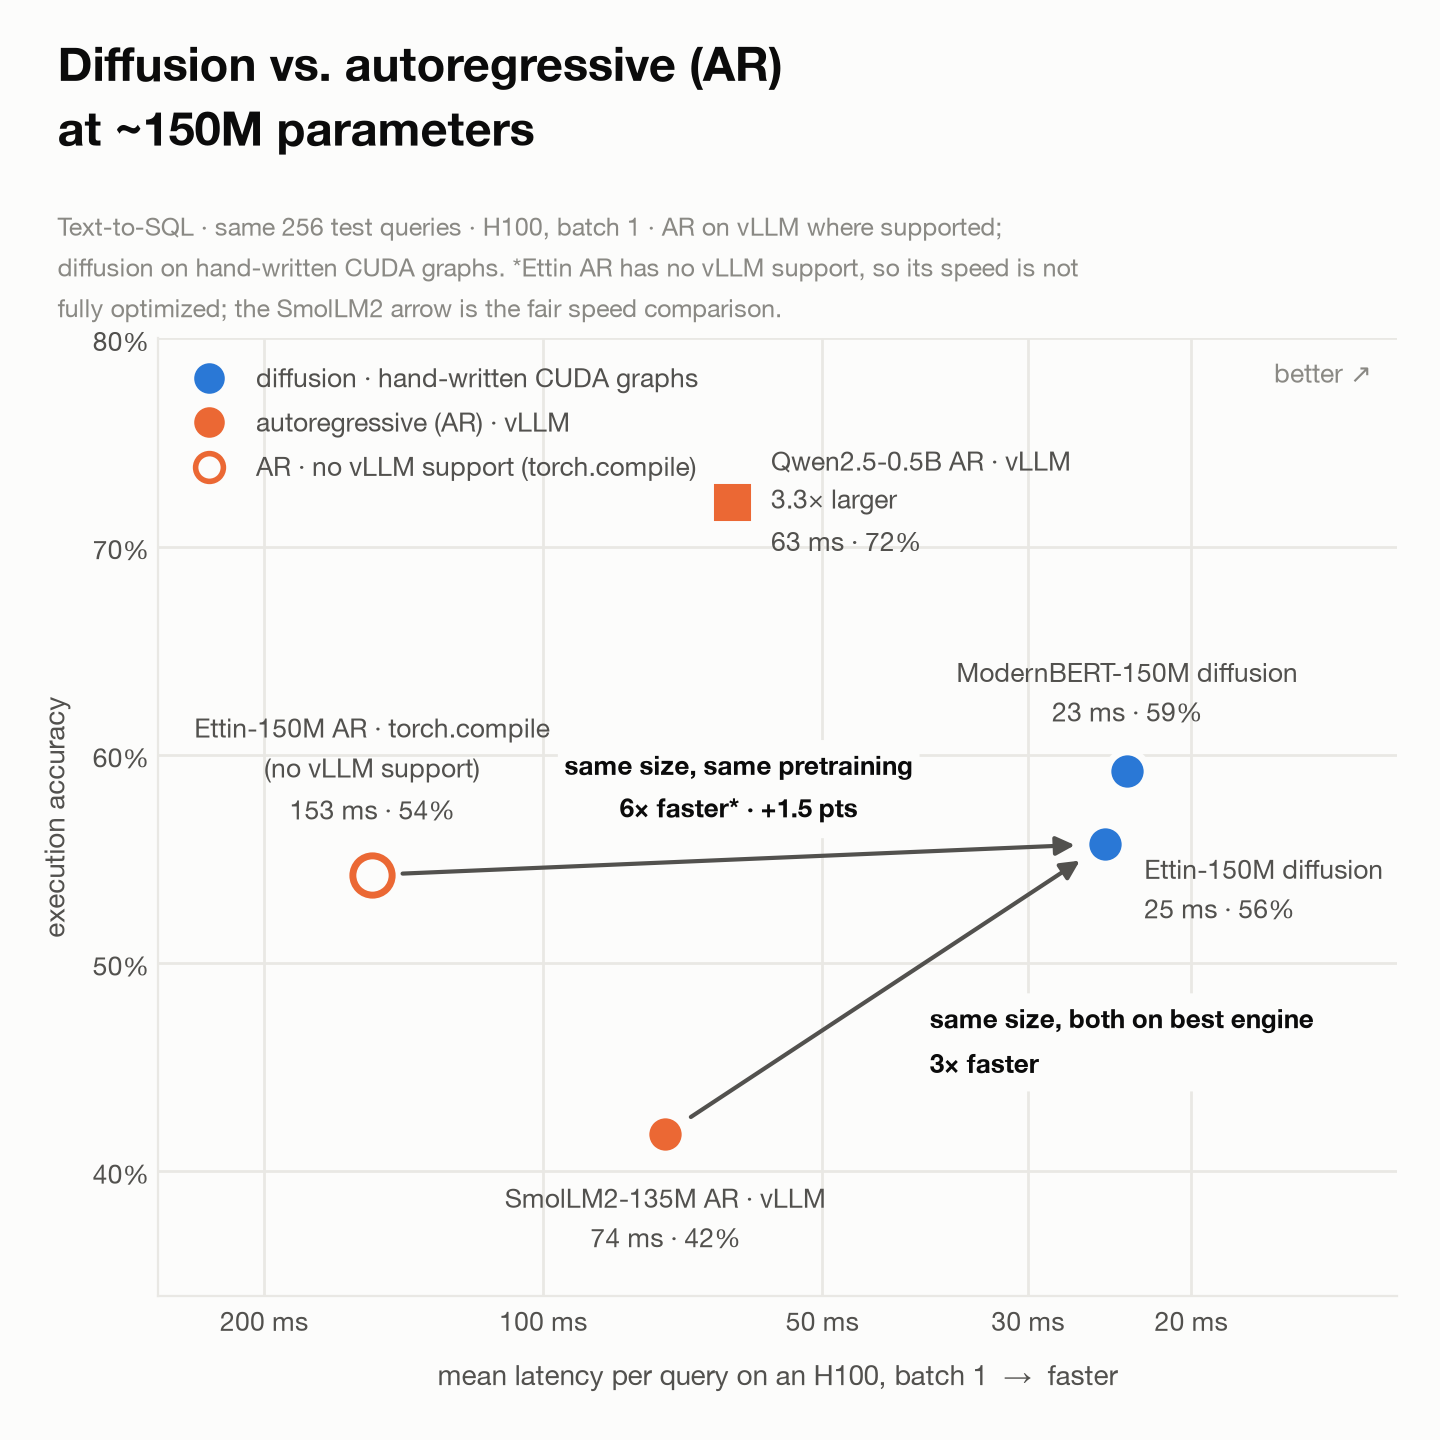
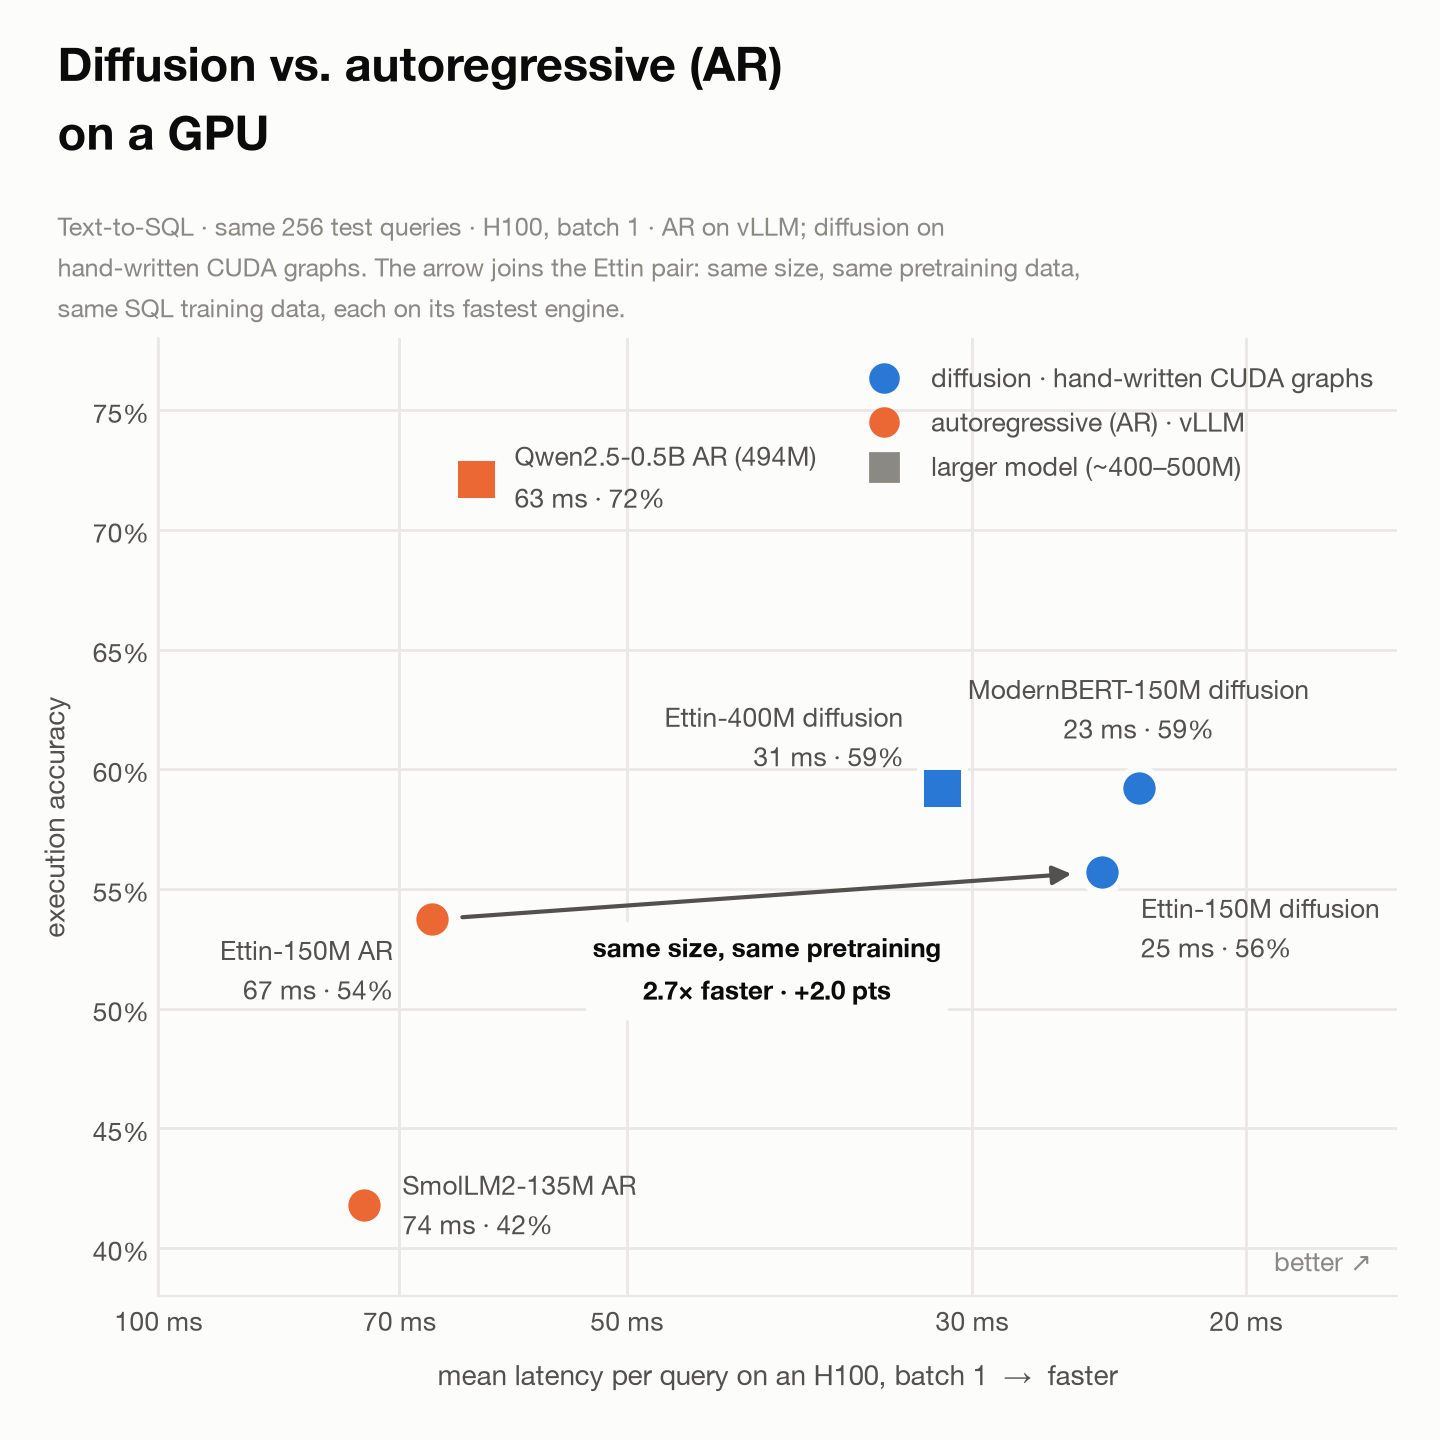
results: Ettin AR on vLLM (fair matched-size GPU speed) and Ettin-400M diffusion
Ettin-150M AR in vLLM (via vllm_plugin/): 67 ms, exec 0.537; Ettin-150M diffusion with CUDA
graphs: 25 ms, exec 0.557 (2.7x faster, +2 pts). Ettin-400M diffusion distilled: exec 0.592 at
31 ms. GPU chart now joins only the fully fair Ettin pair.

Claude-Session: https://claude.ai/code/session_01G6Bm8s1uyizXtz9t5ZCZAw

diff --git a/experiments/2026-10-12_gpu-session/make_gpu_square.py b/experiments/2026-10-12_gpu-session/make_gpu_square.py
@@ -1,8 +1,7 @@
 """Square GPU chart (accuracy vs. speed) with only fair comparisons:
 - every point is a model on its best available engine (AR: vLLM; diffusion: CUDA graphs), H100, batch 1;
-- the speed bracket compares ~150M models on speed only (speed depends on size/architecture, not pretraining);
-- Ettin-150M AR (no vLLM support, so no fair speed) is shown as an accuracy reference line: same pretraining and
-  data as the Ettin diffusion point.
+- the arrow connects the Ettin-150M pair: same size, same pretraining data, same SQL data, both optimized
+  (Ettin AR runs in vLLM through vllm_plugin/).
 
     python experiments/2026-10-12_gpu-session/make_gpu_square.py
 """
@@ -16,23 +15,21 @@ import matplotlib.pyplot as plt  # noqa: E402
 
 from make_headline_chart import COLOR, GRID, HERE, INK, INK_2, MUTED, SURFACE, load  # noqa: E402
 
-# (label, arm, marker, gpu summary, label offset (dx, dy, ha)); marker: "o" model on its best engine,
-# "s" larger reference model, "hollow" not on an optimized engine (no vLLM support)
+# (label, arm, marker, gpu summary, label offset (dx, dy, ha)); marker: "o" ~150M model, "s" larger model
 POINTS = [
-    ("Qwen2.5-0.5B AR · vLLM\n3.3× larger", "ar", "s", "sql-ar-qwen25-coder-0.5b-ar-vllm", (14, 0, "left")),
-    ("SmolLM2-135M AR · vLLM", "ar", "o", "smollm135-ar-vllm", (0, -16, "center")),
-    ("Ettin-150M AR · torch.compile\n(no vLLM support)", "ar", "hollow", "ettin150-ar-10ep-bf16-compiled-graphs",
-     (0, 16, "center")),
+    ("Qwen2.5-0.5B AR (494M)", "ar", "s", "sql-ar-qwen25-coder-0.5b-ar-vllm", (14, 0, "left")),
+    ("SmolLM2-135M AR", "ar", "o", "smollm135-ar-vllm", (14, 0, "left")),
+    ("Ettin-150M AR", "ar", "o", "ettin150-ar-10ep-vllm", (-14, -4, "right")),
+    ("Ettin-400M diffusion", "diffusion", "s", "ettin400-diffusion-iso-10ep-distilled-bf16-cudagraphs",
+     (-14, 4, "right")),
     ("ModernBERT-150M diffusion", "diffusion", "o", "modernbert-isolated-distilled-bf16-cudagraphs", (0, 14, "center")),
     ("Ettin-150M diffusion", "diffusion", "o", "ettin150-diffusion-iso-10ep-distilled-bf16-cudagraphs",
-     (14, -2, "left")),
+     (14, -6, "left")),
 ]
 # (AR, diffusion, label, label offset (dx, dy, ha))
 ARROWS = [
-    ("ettin150-ar-10ep-bf16-compiled-graphs", "ettin150-diffusion-iso-10ep-distilled-bf16-cudagraphs",
-     "same size, same pretraining\n{speed:.0f}× faster* · {acc:+.1f} pts", (0, 10, "center")),
-    ("smollm135-ar-vllm", "ettin150-diffusion-iso-10ep-distilled-bf16-cudagraphs",
-     "same size, both on best engine\n{speed:.0f}× faster", (16, -4, "left")),
+    ("ettin150-ar-10ep-vllm", "ettin150-diffusion-iso-10ep-distilled-bf16-cudagraphs",
+     "same size, same pretraining\n{speed:.1f}× faster · {acc:+.1f} pts", (0, -12, "center")),
 ]
 
 
@@ -41,8 +38,8 @@ def main():
     fig, ax = plt.subplots(figsize=(7.2, 7.2), facecolor=SURFACE)
     ax.set_facecolor(SURFACE)
     ax.set_xscale("log")
-    ax.set_xlim(260, 12)  # reversed: faster to the right, so up-and-right is better
-    ax.set_ylim(34, 80)
+    ax.set_xlim(100, 16)  # reversed: faster to the right, so up-and-right is better
+    ax.set_ylim(38, 78)
 
     for ar_name, diff_name, text, (ldx, ldy, lha) in ARROWS:
         a, d = load("gpu", ar_name), load("gpu", diff_name)
@@ -57,16 +54,13 @@ def main():
     for label, arm, marker, name, (dx, dy, ha) in POINTS:
         s = load("gpu", name)
         x, y = s["lat_mean_ms"], s["exec"] * 100
-        if marker == "hollow":
-            ax.scatter(x, y, s=200, marker="o", facecolor=SURFACE, edgecolor=COLOR[arm], linewidth=2.5, zorder=4)
-        else:
-            ax.scatter(x, y, s=260 if marker == "s" else 200, marker=marker, color=COLOR[arm], edgecolor=SURFACE,
-                       linewidth=2.5, zorder=4)
+        ax.scatter(x, y, s=260 if marker == "s" else 200, marker=marker, color=COLOR[arm], edgecolor=SURFACE,
+                   linewidth=2.5, zorder=4)
         ax.annotate(f"{label}\n{x:.0f} ms · {y:.0f}%", (x, y), xytext=(dx, dy), textcoords="offset points", ha=ha,
                     va="center" if dy == 0 else ("bottom" if dy > 0 else "top"), fontsize=9.5, color=INK_2,
                     linespacing=1.3)
 
-    ax.set_xticks([200, 100, 50, 30, 20])
+    ax.set_xticks([100, 70, 50, 30, 20])
     ax.xaxis.set_major_formatter(matplotlib.ticker.FuncFormatter(lambda v, _: f"{v:g} ms"))
     ax.xaxis.set_minor_formatter(matplotlib.ticker.NullFormatter())
     ax.yaxis.set_major_formatter(matplotlib.ticker.FuncFormatter(lambda v, _: f"{v:.0f}%"))
@@ -78,20 +72,19 @@ def main():
     for side in ("left", "bottom"):
         ax.spines[side].set_color(GRID)
     ax.tick_params(colors=INK_2, labelsize=9.5, length=0, which="both")
-    ax.text(0.98, 0.98, "better ↗", transform=ax.transAxes, ha="right", va="top", fontsize=9.5, color=MUTED)
+    ax.text(0.98, 0.02, "better ↗", transform=ax.transAxes, ha="right", va="bottom", fontsize=9.5, color=MUTED)
     handles = [plt.Line2D([], [], marker="o", linestyle="", markersize=10, color=COLOR["diffusion"],
                           label="diffusion · hand-written CUDA graphs"),
                plt.Line2D([], [], marker="o", linestyle="", markersize=10, color=COLOR["ar"],
                           label="autoregressive (AR) · vLLM"),
-               plt.Line2D([], [], marker="o", linestyle="", markersize=10, markerfacecolor=SURFACE,
-                          markeredgecolor=COLOR["ar"], markeredgewidth=2, label="AR · no vLLM support (torch.compile)")]
-    ax.legend(handles=handles, loc="upper left", frameon=False, fontsize=9.5, labelcolor=INK_2)
+               plt.Line2D([], [], marker="s", linestyle="", markersize=10, color=MUTED, label="larger model (~400–500M)")]
+    ax.legend(handles=handles, loc="upper right", frameon=False, fontsize=9.5, labelcolor=INK_2)
 
-    fig.suptitle("Diffusion vs. autoregressive (AR)\nat ~150M parameters", x=0.04, y=0.975, ha="left", va="top",
+    fig.suptitle("Diffusion vs. autoregressive (AR)\non a GPU", x=0.04, y=0.975, ha="left", va="top",
                  fontsize=17, fontweight="bold", color=INK, linespacing=1.15)
-    fig.text(0.04, 0.855, "Text-to-SQL · same 256 test queries · H100, batch 1 · AR on vLLM where supported;\n"
-             "diffusion on hand-written CUDA graphs. *Ettin AR has no vLLM support, so its speed is not\n"
-             "fully optimized; the SmolLM2 arrow is the fair speed comparison.",
+    fig.text(0.04, 0.855, "Text-to-SQL · same 256 test queries · H100, batch 1 · AR on vLLM; diffusion on\n"
+             "hand-written CUDA graphs. The arrow joins the Ettin pair: same size, same pretraining data,\n"
+             "same SQL training data, each on its fastest engine.",
              fontsize=9, color=MUTED, va="top", linespacing=1.4)
     fig.subplots_adjust(left=0.11, right=0.97, bottom=0.1, top=0.765)
     out = os.path.join(HERE, "plots", "gpu_square.png")

diff --git a/experiments/2026-10-12_gpu-session/README.md b/experiments/2026-10-12_gpu-session/README.md
@@ -15,10 +15,13 @@ same 256 gretelai test rows (`bench/`, exec accuracy over the 201 rows whose gol
    standard error) after 2 epochs; the cache then cuts CPU latency by 29–37% with identical outputs.
 4. **Step distillation** (trajectory masking + certainty forcing, `src/train.py`) cuts denoising steps 18–23%
    (9.5 → 7.4) at equal or better quality.
-5. **GPU (batch 1):** diffusion with CUDA graphs runs in **23–30 ms** per query. The best AR setup, Qwen2.5-0.5B in
-   **vLLM, takes 63 ms**; it is 3.3× larger and 13 points more accurate. The matched-size Ettin AR model has no vLLM
-   support, so there is no optimized matched-size AR GPU number (Hugging Face compiled: 261 ms).
-6. **CPU (3 threads):** distilled, cached, int8 diffusion runs in **216 ms**, vs. **304 ms** for Qwen2.5-0.5B AR in
+5. **GPU (batch 1), matched size, both optimized:** Ettin-150M AR in **vLLM takes 67 ms** per query (exec 0.537);
+   Ettin-150M diffusion with CUDA graphs takes **25 ms** (exec 0.557): **2.7× faster, +2 points exec, +5 points
+   exact**. vLLM runs the Ettin decoder through `vllm_plugin/` (upstreamed as vllm-project/vllm#61246). The 3.3×
+   larger Qwen2.5-0.5B AR in vLLM takes 63 ms at exec 0.721.
+6. **Ettin-400M diffusion** (10 epochs + distillation): exec **0.592** (+3.5 over 150M, about one standard error),
+   exact 0.316, at **31 ms** on the GPU: 2.7× the parameters for about 25% more latency.
+7. **CPU (3 threads):** distilled, cached, int8 diffusion runs in **216 ms**, vs. **304 ms** for Qwen2.5-0.5B AR in
    llama.cpp Q8_0, again at −13 points exec. Versus the playground's configuration at the start of this work
    (863 ms, exec 0.547) it is **4.0× faster and 3.5 points more accurate**.
 
@@ -54,8 +57,12 @@ Training curves: W&B project `sql-diffusion`.
 | **AR** Qwen2.5-0.5B · vLLM | 494M | 0.721 | 0.805 | 0.363 | 30.1 | 50 | 146 | 63 |
 | **AR** Qwen2.5-0.5B · HF static cache + compile, bf16 | 494M | 0.726 | 0.809 | 0.359 | 30.1 | 152 | 409 | 285 |
 | **AR** Qwen2.5-0.5B · HF eager, fp32 | 494M | 0.716 | 0.805 | 0.355 | 29.9 | 264 | 717 | 320 |
+| **AR** Ettin-150M, 10 ep · vLLM (`vllm_plugin/`) | 150M | 0.537 | 0.738 | 0.254 | 32.5 | 56 | 145 | 67 |
+| **AR** SmolLM2-135M · vLLM | 135M | 0.418 | 0.711 | 0.191 | 38.1 | 60 | 177 | 74 |
 | **AR** Ettin-150M, 10 ep · HF static cache + compile, bf16 | 150M | 0.542 | 0.742 | 0.254 | 33.3 | 197 | 517 | 261 |
 | **AR** Ettin-150M, 3 ep · HF static cache + compile, bf16 | 150M | 0.517 | 0.730 | 0.246 | 32.6 | 192 | 501 | 343 |
+| **Diffusion** Ettin-400M, 10 ep, distilled · CUDA graphs, bf16 | 396M | 0.592 | 0.680 | 0.316 | 7.3 | 22 | 68 | 31 |
+| **Diffusion** Ettin-400M, 10 ep · CUDA graphs, bf16 | 396M | 0.597 | 0.660 | 0.324 | 8.9 | 30 | 68 | 38 |
 | **Diffusion** ModernBERT, distilled · CUDA graphs, bf16 | 150M | 0.592 | 0.688 | 0.297 | 7.4 | 17 | 49 | 23 |
 | **Diffusion** ModernBERT, distilled · PyTorch eager + prompt cache, bf16 | 150M | 0.592 | 0.691 | 0.301 | 7.4 | 98 | 245 | 122 |
 | **Diffusion** Ettin-150M, 10 ep, distilled · CUDA graphs, bf16 | 150M | 0.557 | 0.648 | 0.305 | 7.8 | 17 | 49 | 25 |
@@ -94,9 +101,10 @@ Prompt isolation (trained, GPU eval): control 0.582 exec / isolated 0.552 exec (
 - **Why diffusion keeps improving.** Each epoch shows a diffusion model every example under a new random mask and mask
   ratio, so repeated data keeps yielding new prediction tasks; AR sees each example in the same left-to-right order.
   This matches published findings that masked diffusion benefits from many more epochs on limited data.
-- **No optimized matched-size AR engine.** vLLM and llama.cpp don't support the Ettin decoder
-  (`modernbert-decoder`), so on GPU and CPU the fastest AR numbers come from the 3.3× larger Qwen2.5-0.5B. A
-  150M AR model in vLLM / llama.cpp would very likely be faster than these Qwen numbers; it was not measured.
+- **Matched-size AR engines.** On GPU, Ettin AR runs in vLLM through `vllm_plugin/` (outputs match Hugging Face;
+  exec 0.537 vs 0.542). On CPU, llama.cpp does not support the Ettin decoder, so the fastest CPU AR number is still
+  the 3.3× larger Qwen2.5-0.5B. Diffusion runs on hand-written CUDA graphs: no serving engine exists for masked
+  diffusion, so the GPU comparison still favours AR's tooling.
 - **CUDA-graph p95 (49 ms)** is dominated by the first query of each new padded length, which captures a graph;
   p50 is representative of steady state.
 - **Distillation confound:** the distilled models also got one more epoch, which may explain part of the
